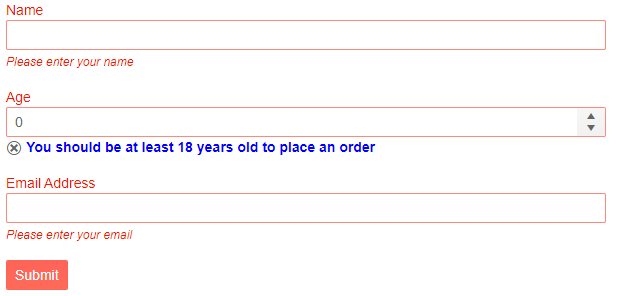
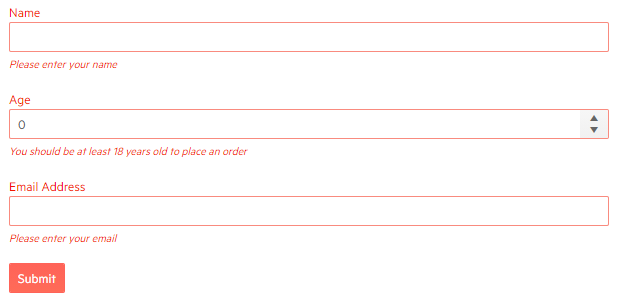
chore(validators): minor fixes on screenshots, example for edit form

diff --git a/components/validation/message.md b/components/validation/message.md
@@ -20,7 +20,7 @@ This article is separated in the following sections:
 
 ## Basics
 
-To enable Telerik Validation Messages for a field in the form you should provide a lambda expression in the `For` parameter that notifies the component for which property of the model the validation messages should render.
+To enable Telerik Validation Messages for a field in the form you should provide a lambda expression in the `For` parameter that notifies the component for which property of the model the validation messages should render, just like with the standard `ValidationMessage` component.
 
 >caption Enable Telerik Validation Message in a Form
 
@@ -69,6 +69,54 @@ To enable Telerik Validation Messages for a field in the form you should provide
 >caption The result from the code snippet above
 
 ![Messages Basic Example](images/messages-example.png)
+
+>caption Enable Telerik Validation Message in an EditForm
+
+````CSHTML
+@* Enable the Telerik Validation Message in the standard EditForm *@
+
+@using System.ComponentModel.DataAnnotations
+
+<EditForm Model="@customer" width="600px">
+    <DataAnnotationsValidator />
+
+    <InputText @bind-Value="@customer.CustomerName"></InputText>
+    <TelerikValidationMessage For="@(() => customer.CustomerName)" />
+    <br />
+    <InputNumber @bind-Value="@customer.CustomerAge"></InputNumber>
+    <TelerikValidationMessage For="@(() => customer.CustomerAge)" />
+    <br />
+    <InputText @bind-Value="@customer.EmailAddress"></InputText>
+    <TelerikValidationMessage For="@(() => customer.EmailAddress)" />
+    <br />
+    <input type="submit" value="Submit" />
+</EditForm>
+
+@code {
+    private Customer customer = new Customer();
+
+    public class Customer
+    {
+        [Required(ErrorMessage = "Please enter your name")]
+        [MaxLength(40, ErrorMessage = "The name must be up to 40 characters long")]
+        public string CustomerName { get; set; }
+
+        [Required(ErrorMessage = "Please enter your age")]
+        [Range(18, 120, ErrorMessage = "You should be at least 18 years old to place an order")]
+        public int CustomerAge { get; set; }
+
+        [Required(ErrorMessage = "Please enter your email")]
+        [EmailAddress(ErrorMessage = "Enter a valid email address")]
+        public string EmailAddress { get; set; }
+    }
+}
+
+````
+
+>caption The result from the code snippet above
+
+![Summary Basic Example](images/validation-message-in-editform.png)
+
 
 ## Template
 
@@ -143,6 +191,8 @@ Allows you to control the rendering of the validation messages. The `context` re
 ## Class
 
 You can use the `Class` parameter to add a custom CSS class to the `k-form-error` span, that wraps the validation message.
+
+This example adds a custom class and styling to the third message - for the Email Address.
 
 ````CSHTML
 @* Use the Class parameter to change the font of the validation message *@
